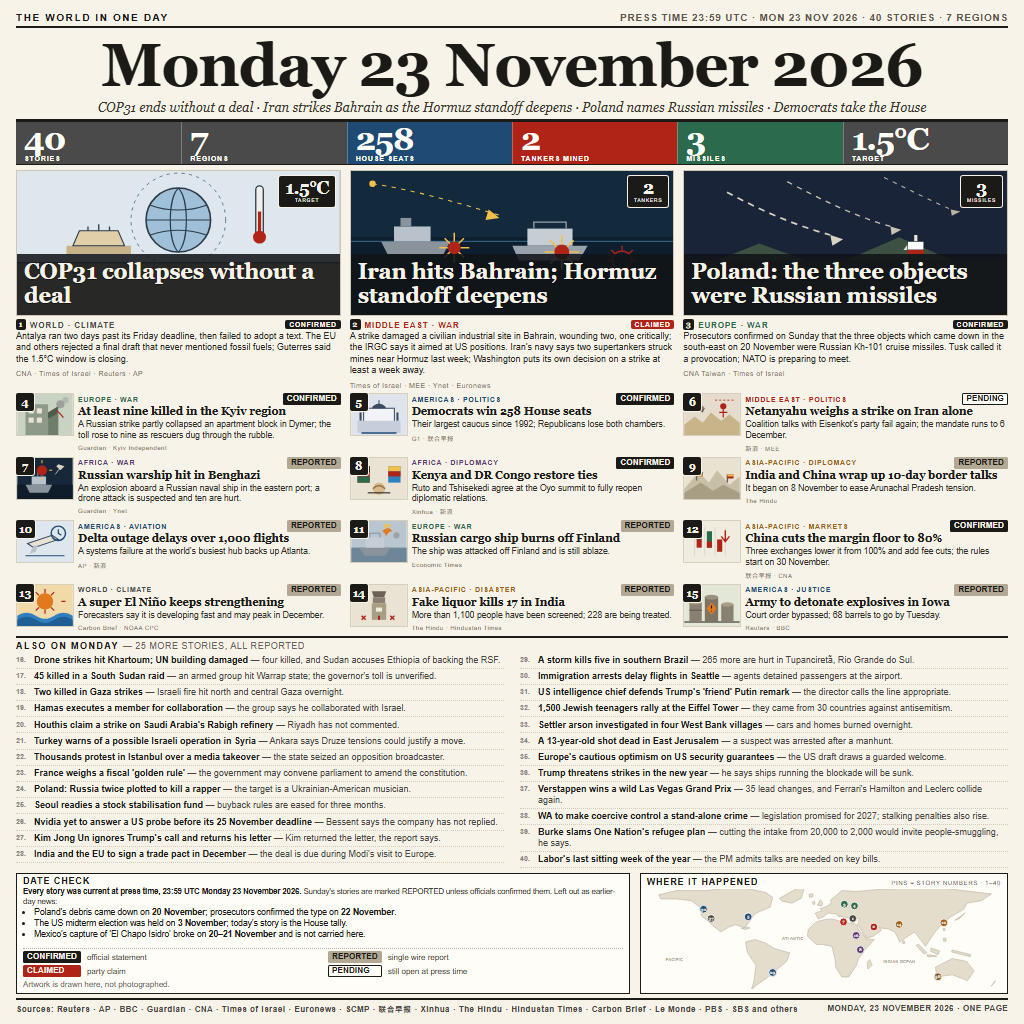
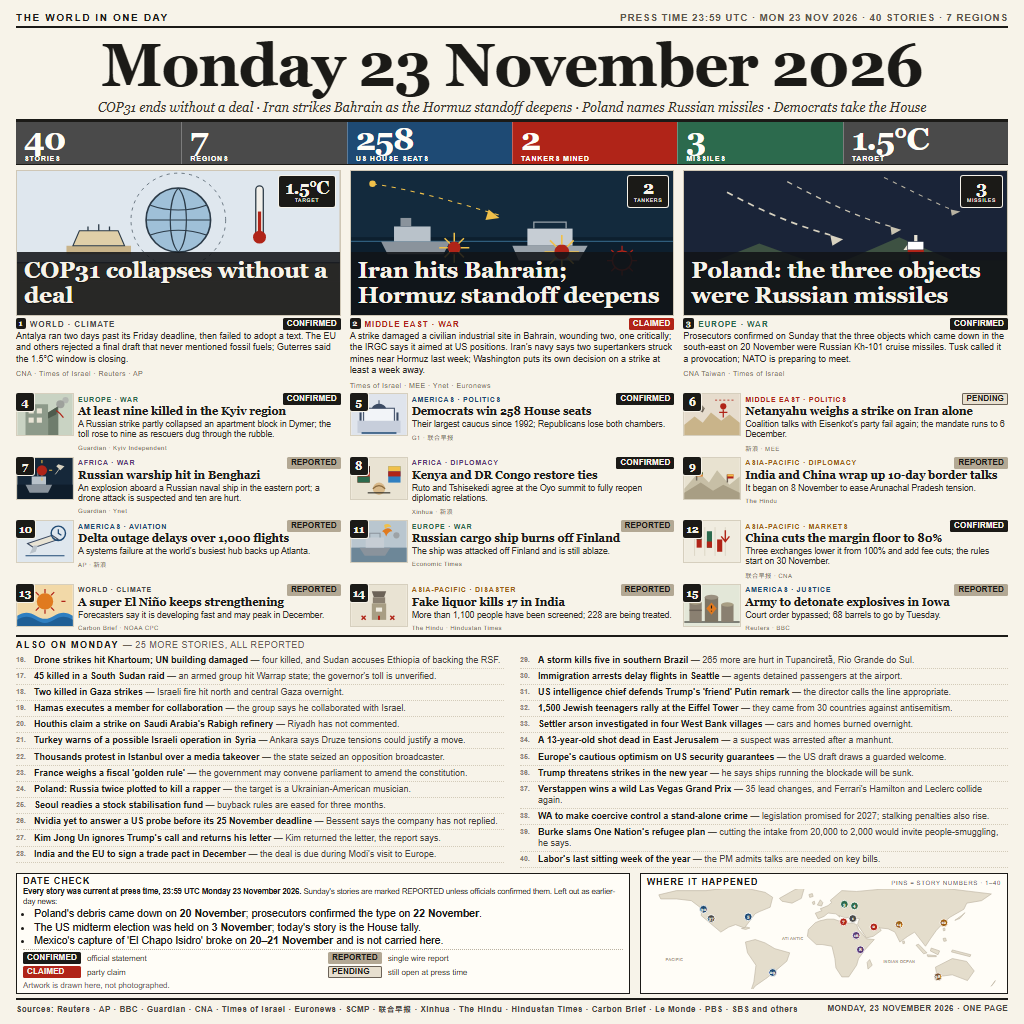
news-image-20261123: v5 - heavier lead headlines (23px), 12px lead status chips, 10.5px date-check lines, US HOUSE SEATS label

diff --git a/design.html b/design.html
@@ -71,11 +71,12 @@
   .badge i { display: block; font-style: normal; font-size: 5.2px; letter-spacing: .12em; margin-top: 1px; }
   .kicker {
     display: flex; justify-content: space-between; align-items: center;
-    font-size: 8px; letter-spacing: .11em; font-weight: 700; margin: 3px 0 1px;
+    font-size: 8px; letter-spacing: .11em; font-weight: 700; margin: 2px 0 1px;
     color: var(--c);
   }
   .kicker .chip {
-    font-size: 7px; letter-spacing: .08em; padding: 1px 4px; border-radius: 2px;
+    font-size: 8px; letter-spacing: .02em; padding: 0 4px; border-radius: 1.5px;
+    height: 12px; line-height: 12px;
     background: #1b1a17; color: #f7f3e9;
   }
   .chip.claim { background: #b02418; } .chip.pending { background: #6b6257; }
@@ -86,7 +87,7 @@
   /* plan C: the three lead headlines sit on a solid band over the foot of each illustration */
   .lead h2.over {
     position: absolute; left: 0; right: 0; bottom: 0; margin: 0;
-    padding: 6px 7px 7px; font-size: 22px; line-height: 1.08;
+    padding: 6px 7px 7px; font-size: 23px; line-height: 1.08;
     color: #f7f3e9; background: rgba(17,19,23,.87);
     text-shadow: 0 1px 1px rgba(0,0,0,.45);
   }
@@ -137,12 +138,12 @@
     margin: 0 0 1px; font-size: 8.5px; letter-spacing: .14em; font-weight: 700;
   }
   /* DATE CHECK: the three "left out as earlier-day news" lines are the proof we are not rewriting
-     yesterday, so they run at 8.5px with the dates in solid black; the panel pays for it with its own padding */
-  .datecheck { display: flex; flex-direction: column; padding: 2px 6px 3px; }
+     yesterday, so they run at 10.5px with the dates in solid black; the panel pays for it with its own padding */
+  .datecheck { display: flex; flex-direction: column; padding: 2px 6px 2px; }
   .datecheck p { margin: 0; font-size: 7.6px; line-height: 1.26; color: #2b2823; }
   .datecheck b { font-weight: 700; color: #1b1a17; }
   .datecheck ul { margin: 1px 0 0; padding-left: 11px; }
-  .datecheck li { font-size: 8.5px; line-height: 1.28; }
+  .datecheck li { font-size: 10.5px; line-height: 1.28; }
 
   /* numbered map: where the day's stories happened */
   .map { display: flex; flex-direction: column; padding: 3px 6px 4px; }
@@ -165,7 +166,7 @@
   .chip { display: inline-block; font-size: 7px; letter-spacing: .08em; padding: 1px 4px; border-radius: 2px; background: #1b1a17; color: #f7f3e9; font-weight: 700; }
   .chip.reported { background: #b3a894; color: #1b1a17; }
   .chip.claimed { background: #b02418; }
-  .chip.pending { background: #fffdf7; color: #1b1a17; box-shadow: inset 0 0 0 1px #1b1a17; }
+  .chip.pending { background: #e7dfcf; color: #1b1a17; box-shadow: inset 0 0 0 1px #6b6257; }
   .card .k { display: flex; justify-content: space-between; align-items: center; gap: 3px; }
   /* card status chips are 12px solid blocks at 8px type: the editing evidence, made visible at a glance */
   .card .k .chip { font-size: 8px; letter-spacing: .02em; padding: 0 4px; height: 12px; line-height: 12px; border-radius: 1.5px; }
@@ -194,13 +195,13 @@
 
   <div class="figs">
     <!-- 40 STORIES and 7 REGIONS: the page's own counts, as printed in the topline.
-         258 HOUSE SEATS: story 5 ("Democrats win 258 House seats").
+         258 US HOUSE SEATS: story 5 ("Democrats win 258 House seats").
          2 TANKERS MINED: story 2 ("two supertankers struck mines near Hormuz").
          3 MISSILES: story 3 ("the three objects ... were Russian Kh-101 cruise missiles").
          1.5°C TARGET: story 1 (Guterres: "the 1.5°C window is closing"). -->
     <div class="fig wo"><b>40</b><span>STORIES</span></div>
     <div class="fig wo"><b>7</b><span>REGIONS</span></div>
-    <div class="fig am"><b>258</b><span>HOUSE SEATS</span></div>
+    <div class="fig am"><b>258</b><span>US HOUSE SEATS</span></div>
     <div class="fig me"><b>2</b><span>TANKERS MINED</span></div>
     <div class="fig eu"><b>3</b><span>MISSILES</span></div>
     <div class="fig wo"><b>1.5°C</b><span>TARGET</span></div>
